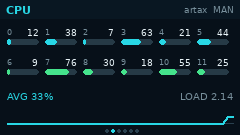
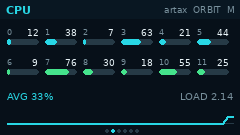
Add button navigation and encoder color themes

Changed region(s): [[0.6708, 0.0296, 0.9917, 0.1185]]

diff --git a/jetson_stats_pitft/ui.py b/jetson_stats_pitft/ui.py
@@ -3,6 +3,7 @@
 from __future__ import annotations
 
 from collections import deque
+from dataclasses import dataclass
 from pathlib import Path
 
 from PIL import Image, ImageDraw, ImageFont
@@ -11,16 +12,32 @@ from .metrics import Snapshot
 
 
 W, H = 240, 135
-BG = "#071019"
-PANEL = "#101e29"
-PANEL_2 = "#162936"
-TEXT = "#e8f3f7"
-MUTED = "#78909c"
-CYAN = "#28d7e5"
-GREEN = "#45e38c"
-MAGENTA = "#eb5cff"
-AMBER = "#ffc857"
-RED = "#ff5964"
+
+
+@dataclass(frozen=True)
+class Theme:
+    name: str
+    bg: str
+    header: str
+    panel: str
+    track: str
+    divider: str
+    text: str
+    muted: str
+    primary: str
+    success: str
+    accent: str
+    warn: str
+    danger: str
+
+
+THEMES = (
+    Theme("ORBIT", "#071019", "#091722", "#101e29", "#263a46", "#203441", "#e8f3f7", "#78909c", "#28d7e5", "#45e38c", "#eb5cff", "#ffc857", "#ff5964"),
+    Theme("EMBER", "#160d08", "#211109", "#2a1710", "#493022", "#3b241a", "#fff2dc", "#b69a78", "#ffb000", "#ffd166", "#ff6b35", "#ffe66d", "#ff3b30"),
+    Theme("MATRIX", "#020d08", "#041a10", "#092419", "#174631", "#103825", "#e5fff1", "#71a98a", "#00ff88", "#9cff57", "#00d1b2", "#e0ff4f", "#ff4d6d"),
+    Theme("SYNTH", "#10071c", "#190b2b", "#21123a", "#46305e", "#38234e", "#fff0ff", "#a98ab8", "#00e5ff", "#7df9ff", "#ff4fd8", "#ffd166", "#ff477e"),
+    Theme("ARCTIC", "#06101b", "#091a2a", "#10263a", "#28485f", "#1c3a50", "#edf8ff", "#809db2", "#48cae4", "#90e0ef", "#5e60ce", "#ffd166", "#ff6b6b"),
+)
 
 FONT_DIR = Path("/usr/share/fonts/truetype/dejavu")
 
@@ -67,12 +84,19 @@ def _uptime(seconds: float) -> str:
 
 class DashboardUI:
     page_names = ("DECK", "CPU", "GPU", "MEM", "NET", "SYSTEM")
+    theme_names = tuple(theme.name for theme in THEMES)
 
-    def __init__(self):
+    def __init__(self, theme: int = 0):
+        self.theme_index = theme % len(THEMES)
+        self.theme = THEMES[self.theme_index]
         self.cpu_history: deque[float] = deque([0] * 48, maxlen=48)
         self.gpu_history: deque[float] = deque([0] * 48, maxlen=48)
         self.rx_history: deque[float] = deque([0] * 48, maxlen=48)
         self.tx_history: deque[float] = deque([0] * 48, maxlen=48)
+
+    def set_theme(self, theme: int) -> None:
+        self.theme_index = theme % len(THEMES)
+        self.theme = THEMES[self.theme_index]
 
     def render(self, snapshot: Snapshot, page: int, auto: bool = False) -> Image.Image:
         self.cpu_history.append(snapshot.cpu_percent)
@@ -80,7 +104,7 @@ class DashboardUI:
         self.rx_history.append(snapshot.network_rx_bps)
         self.tx_history.append(snapshot.network_tx_bps)
         page %= len(self.page_names)
-        image = Image.new("RGB", (W, H), BG)
+        image = Image.new("RGB", (W, H), self.theme.bg)
         draw = ImageDraw.Draw(image)
         self._header(draw, snapshot, page, auto)
         renderers = (self._deck, self._cpu, self._gpu, self._memory, self._network, self._system)
@@ -127,35 +151,30 @@ class DashboardUI:
         return common + page_regions[page % len(page_regions)]
 
     def _header(self, draw: ImageDraw.ImageDraw, s: Snapshot, page: int, auto: bool) -> None:
-        draw.rectangle((0, 0, W, 18), fill="#091722")
-        draw.text((6, 3), self.page_names[page], font=F11, fill=CYAN)
-        host = s.hostname[:15]
-        label = f"{host}  {'AUTO' if auto else 'MAN'}"
-        draw.text((234, 4), label, font=F9, fill=GREEN if auto else MUTED, anchor="ra")
+        draw.rectangle((0, 0, W, 18), fill=self.theme.header)
+        draw.text((6, 3), self.page_names[page], font=F11, fill=self.theme.primary)
+        label = f"{s.hostname[:8]}  {self.theme.name}  {'A' if auto else 'M'}"
+        draw.text((234, 4), label, font=F9, fill=self.theme.success if auto else self.theme.muted, anchor="ra")
 
-    @staticmethod
-    def _footer(draw: ImageDraw.ImageDraw, page: int) -> None:
+    def _footer(self, draw: ImageDraw.ImageDraw, page: int) -> None:
         for index in range(6):
             x = 105 + index * 6
-            color = CYAN if index == page else "#29404e"
+            color = self.theme.primary if index == page else self.theme.track
             draw.ellipse((x, 129, x + 3, 132), fill=color)
 
-    @staticmethod
-    def _panel(draw: ImageDraw.ImageDraw, box: tuple[int, int, int, int]) -> None:
-        draw.rounded_rectangle(box, radius=4, fill=PANEL)
+    def _panel(self, draw: ImageDraw.ImageDraw, box: tuple[int, int, int, int]) -> None:
+        draw.rounded_rectangle(box, radius=4, fill=self.theme.panel)
 
-    @staticmethod
-    def _bar(draw: ImageDraw.ImageDraw, box: tuple[int, int, int, int], value: float, color: str) -> None:
+    def _bar(self, draw: ImageDraw.ImageDraw, box: tuple[int, int, int, int], value: float, color: str) -> None:
         x0, y0, x1, y1 = box
-        draw.rounded_rectangle(box, radius=2, fill="#263a46")
+        draw.rounded_rectangle(box, radius=2, fill=self.theme.track)
         width = int((x1 - x0) * _clamp(value) / 100)
         if width:
             draw.rounded_rectangle((x0, y0, x0 + width, y1), radius=2, fill=color)
 
-    @staticmethod
-    def _spark(draw: ImageDraw.ImageDraw, values: deque[float], box: tuple[int, int, int, int], color: str, maximum: float = 100) -> None:
+    def _spark(self, draw: ImageDraw.ImageDraw, values: deque[float], box: tuple[int, int, int, int], color: str, maximum: float = 100) -> None:
         x0, y0, x1, y1 = box
-        draw.line((x0, y1, x1, y1), fill="#29404e")
+        draw.line((x0, y1, x1, y1), fill=self.theme.track)
         vals = list(values)
         if len(vals) < 2:
             return
@@ -166,80 +185,79 @@ class DashboardUI:
         ]
         draw.line(points, fill=color, width=2, joint="curve")
 
-    @staticmethod
-    def _gauge(draw: ImageDraw.ImageDraw, center: tuple[int, int], radius: int, value: float, color: str, label: str) -> None:
+    def _gauge(self, draw: ImageDraw.ImageDraw, center: tuple[int, int], radius: int, value: float, color: str, label: str) -> None:
         cx, cy = center
         box = (cx - radius, cy - radius, cx + radius, cy + radius)
-        draw.arc(box, 150, 390, fill="#29404e", width=5)
+        draw.arc(box, 150, 390, fill=self.theme.track, width=5)
         draw.arc(box, 150, 150 + 240 * _clamp(value) / 100, fill=color, width=5)
-        draw.text((cx, cy - 7), f"{value:.0f}%", font=F13, fill=TEXT, anchor="mm")
-        draw.text((cx, cy + 8), label, font=F8, fill=MUTED, anchor="mm")
+        draw.text((cx, cy - 7), f"{value:.0f}%", font=F13, fill=self.theme.text, anchor="mm")
+        draw.text((cx, cy + 8), label, font=F8, fill=self.theme.muted, anchor="mm")
 
     def _deck(self, draw: ImageDraw.ImageDraw, s: Snapshot) -> None:
-        self._gauge(draw, (39, 66), 27, s.cpu_percent, CYAN, "CPU")
-        self._gauge(draw, (102, 66), 27, s.gpu_percent, MAGENTA, "GPU")
+        self._gauge(draw, (39, 66), 27, s.cpu_percent, self.theme.primary, "CPU")
+        self._gauge(draw, (102, 66), 27, s.gpu_percent, self.theme.accent, "GPU")
         self._panel(draw, (137, 25, 234, 117))
         rows = (
-            ("RAM", f"{s.ram_percent:.0f}%", GREEN),
-            ("TEMP", f"{s.hottest_temp:.0f}°C", AMBER),
-            ("POWER", f"{s.total_power_w:.1f}W", MAGENTA),
-            ("FAN", f"{s.fan_rpm} rpm", CYAN),
+            ("RAM", f"{s.ram_percent:.0f}%", self.theme.success),
+            ("TEMP", f"{s.hottest_temp:.0f}°C", self.theme.warn),
+            ("POWER", f"{s.total_power_w:.1f}W", self.theme.accent),
+            ("FAN", f"{s.fan_rpm} rpm", self.theme.primary),
         )
         for i, (label, value, color) in enumerate(rows):
             y = 31 + i * 21
-            draw.text((144, y), label, font=F8, fill=MUTED)
+            draw.text((144, y), label, font=F8, fill=self.theme.muted)
             draw.text((227, y - 1), value, font=F11, fill=color, anchor="ra")
             if i < 3:
-                draw.line((144, y + 16, 227, y + 16), fill="#203441")
+                draw.line((144, y + 16, 227, y + 16), fill=self.theme.divider)
 
     def _cpu(self, draw: ImageDraw.ImageDraw, s: Snapshot) -> None:
         cores = s.cpu_cores or [0.0] * 12
         for i, value in enumerate(cores[:12]):
             column, row = i % 6, i // 6
             x, y = 7 + column * 38, 27 + row * 30
-            draw.text((x, y), f"{i}", font=F8, fill=MUTED)
-            draw.text((x + 31, y), f"{value:.0f}", font=F9, fill=TEXT, anchor="ra")
-            self._bar(draw, (x, y + 12, x + 31, y + 17), value, CYAN if row == 0 else GREEN)
-        draw.text((7, 90), f"AVG {s.cpu_percent:.0f}%", font=F10, fill=CYAN)
-        draw.text((233, 90), f"LOAD {s.load[0]:.2f}", font=F10, fill=MUTED, anchor="ra")
-        self._spark(draw, self.cpu_history, (7, 103, 233, 123), CYAN)
+            draw.text((x, y), f"{i}", font=F8, fill=self.theme.muted)
+            draw.text((x + 31, y), f"{value:.0f}", font=F9, fill=self.theme.text, anchor="ra")
+            self._bar(draw, (x, y + 12, x + 31, y + 17), value, self.theme.primary if row == 0 else self.theme.success)
+        draw.text((7, 90), f"AVG {s.cpu_percent:.0f}%", font=F10, fill=self.theme.primary)
+        draw.text((233, 90), f"LOAD {s.load[0]:.2f}", font=F10, fill=self.theme.muted, anchor="ra")
+        self._spark(draw, self.cpu_history, (7, 103, 233, 123), self.theme.primary)
 
     def _gpu(self, draw: ImageDraw.ImageDraw, s: Snapshot) -> None:
-        self._gauge(draw, (44, 65), 29, s.gpu_percent, MAGENTA, "GR3D")
+        self._gauge(draw, (44, 65), 29, s.gpu_percent, self.theme.accent, "GR3D")
         self._panel(draw, (82, 25, 234, 84))
-        draw.text((90, 31), "BOARD POWER", font=F8, fill=MUTED)
-        draw.text((226, 28), f"{s.total_power_w:.2f} W", font=F18, fill=AMBER, anchor="ra")
-        draw.text((90, 58), "HOTTEST", font=F8, fill=MUTED)
-        draw.text((226, 55), f"{s.hottest_temp:.1f}°C", font=F13, fill=RED if s.hottest_temp > 80 else GREEN, anchor="ra")
-        draw.text((7, 94), "GPU HISTORY", font=F8, fill=MUTED)
-        self._spark(draw, self.gpu_history, (7, 103, 233, 123), MAGENTA)
+        draw.text((90, 31), "BOARD POWER", font=F8, fill=self.theme.muted)
+        draw.text((226, 28), f"{s.total_power_w:.2f} W", font=F18, fill=self.theme.warn, anchor="ra")
+        draw.text((90, 58), "HOTTEST", font=F8, fill=self.theme.muted)
+        draw.text((226, 55), f"{s.hottest_temp:.1f}°C", font=F13, fill=self.theme.danger if s.hottest_temp > 80 else self.theme.success, anchor="ra")
+        draw.text((7, 94), "GPU HISTORY", font=F8, fill=self.theme.muted)
+        self._spark(draw, self.gpu_history, (7, 103, 233, 123), self.theme.accent)
 
     def _memory(self, draw: ImageDraw.ImageDraw, s: Snapshot) -> None:
         rows = (
-            ("RAM", s.ram_percent, f"{s.ram_used_mb / 1024:.1f} / {s.ram_total_mb / 1024:.1f} GB", GREEN),
-            ("SWAP", s.swap_percent, f"{s.swap_used_mb / 1024:.1f} / {s.swap_total_mb / 1024:.1f} GB", MAGENTA),
-            ("ROOT", s.disk_percent, f"{_storage(s.disk_used)} / {_storage(s.disk_total)}", AMBER),
+            ("RAM", s.ram_percent, f"{s.ram_used_mb / 1024:.1f} / {s.ram_total_mb / 1024:.1f} GB", self.theme.success),
+            ("SWAP", s.swap_percent, f"{s.swap_used_mb / 1024:.1f} / {s.swap_total_mb / 1024:.1f} GB", self.theme.accent),
+            ("ROOT", s.disk_percent, f"{_storage(s.disk_used)} / {_storage(s.disk_total)}", self.theme.warn),
         )
         for index, (label, percent, value, color) in enumerate(rows):
             y = 28 + index * 31
             draw.text((8, y), label, font=F10, fill=color)
-            draw.text((232, y), value, font=F9, fill=TEXT, anchor="ra")
+            draw.text((232, y), value, font=F9, fill=self.theme.text, anchor="ra")
             self._bar(draw, (8, y + 14, 232, y + 21), percent, color)
-        draw.text((8, 120), "Unified memory shared by CPU + GPU", font=F8, fill=MUTED)
+        draw.text((8, 120), "Unified memory shared by CPU + GPU", font=F8, fill=self.theme.muted)
 
     def _network(self, draw: ImageDraw.ImageDraw, s: Snapshot) -> None:
-        draw.text((7, 25), s.network_interface, font=F13, fill=CYAN)
-        draw.text((233, 26), s.ip_address, font=F11, fill=TEXT, anchor="ra")
-        draw.text((7, 47), "RX", font=F9, fill=GREEN)
-        draw.text((27, 44), _bytes(s.network_rx_bps), font=F13, fill=TEXT)
-        draw.text((128, 47), "TX", font=F9, fill=MAGENTA)
-        draw.text((150, 44), _bytes(s.network_tx_bps), font=F13, fill=TEXT)
+        draw.text((7, 25), s.network_interface, font=F13, fill=self.theme.primary)
+        draw.text((233, 26), s.ip_address, font=F11, fill=self.theme.text, anchor="ra")
+        draw.text((7, 47), "RX", font=F9, fill=self.theme.success)
+        draw.text((27, 44), _bytes(s.network_rx_bps), font=F13, fill=self.theme.text)
+        draw.text((128, 47), "TX", font=F9, fill=self.theme.accent)
+        draw.text((150, 44), _bytes(s.network_tx_bps), font=F13, fill=self.theme.text)
         peak = max(1024, *self.rx_history, *self.tx_history)
-        self._spark(draw, self.rx_history, (7, 73, 233, 121), GREEN, peak)
-        self._spark(draw, self.tx_history, (7, 73, 233, 121), MAGENTA, peak)
+        self._spark(draw, self.rx_history, (7, 73, 233, 121), self.theme.success, peak)
+        self._spark(draw, self.tx_history, (7, 73, 233, 121), self.theme.accent, peak)
 
     def _system(self, draw: ImageDraw.ImageDraw, s: Snapshot) -> None:
-        draw.text((8, 25), s.hostname, font=F24, fill=CYAN)
+        draw.text((8, 25), s.hostname, font=F24, fill=self.theme.primary)
         rows = (
             ("POWER MODE", s.nvpmodel),
             ("JETPACK", s.jetpack),
@@ -249,8 +267,8 @@ class DashboardUI:
         )
         for index, (label, value) in enumerate(rows):
             y = 56 + index * 14
-            draw.text((8, y), label, font=F8, fill=MUTED)
-            draw.text((232, y), value[:25], font=F9, fill=TEXT, anchor="ra")
+            draw.text((8, y), label, font=F8, fill=self.theme.muted)
+            draw.text((232, y), value[:25], font=F9, fill=self.theme.text, anchor="ra")
 
 
 def mock_snapshot() -> Snapshot:

diff --git a/jetson_stats_pitft/app.py b/jetson_stats_pitft/app.py
@@ -23,6 +23,7 @@ class Dashboard:
         self.with_inputs = with_inputs
         self.spi_hz = spi_hz
         self.auto = False
+        self.theme = 0
         self.auto_at = time.monotonic() + 8
         self.stop_event = threading.Event()
         self.render_event = threading.Event()
@@ -40,6 +41,11 @@ class Dashboard:
             self.auto_at = time.monotonic() + 8
         self.render_event.set()
 
+    def _cycle_theme(self, amount: int) -> None:
+        with self.lock:
+            self.theme = (self.theme + amount) % len(DashboardUI.theme_names)
+        self.render_event.set()
+
     def stop(self, *_args: object) -> None:
         self.stop_event.set()
         self.render_event.set()
@@ -52,7 +58,7 @@ class Dashboard:
             with ST7789(speed_hz=self.spi_hz) as display:
                 if self.with_inputs:
                     inputs = InputMonitor(
-                        on_rotate=self._move,
+                        on_rotate=self._cycle_theme,
                         on_press=self._toggle_auto,
                         on_previous=lambda: self._move(-1),
                         on_next=lambda: self._move(1),
@@ -61,10 +67,13 @@ class Dashboard:
                 ui = DashboardUI()
                 snapshot = collector.collect()
                 with self.lock:
-                    page, auto = self.page, self.auto
+                    page, auto, theme = self.page, self.auto, self.theme
+                ui.set_theme(theme)
                 target = ui.render(snapshot, page, auto)
                 display.show(target)
                 displayed_page = page
+                displayed_theme = theme
+                displayed_auto = auto
                 regions: list[tuple[int, int, int, int]] = []
                 next_sample = time.monotonic() + self.interval
                 next_micro = time.monotonic()
@@ -74,14 +83,18 @@ class Dashboard:
                         if self.auto and now >= self.auto_at:
                             self.page = (self.page + 1) % len(ui.page_names)
                             self.auto_at = now + 8
-                        page, auto = self.page, self.auto
-                    if page != displayed_page:
+                        page, auto, theme = self.page, self.auto, self.theme
+                    if page != displayed_page or theme != displayed_theme or auto != displayed_auto:
+                        ui.set_theme(theme)
                         target = ui.render(snapshot, page, auto)
                         display.show(target)
                         displayed_page = page
+                        displayed_theme = theme
+                        displayed_auto = auto
                         regions.clear()
                     if now >= next_sample:
                         snapshot = collector.collect()
+                        ui.set_theme(theme)
                         target = ui.render(snapshot, page, auto)
                         regions = ui.regions(page)
                         random.shuffle(regions)

diff --git a/jetson_stats_pitft/inputs.py b/jetson_stats_pitft/inputs.py
@@ -61,6 +61,7 @@ class InputMonitor:
 
     def _run(self) -> None:
         previous = {name: line.get_value() for name, line in self.lines.items()}
+        idle = {name: previous[name] for name in self.callbacks}
         encoder_state = (previous["encoder_a"] << 1) | previous["encoder_b"]
         encoder_accumulator = 0
         last_press = {name: 0.0 for name in self.callbacks}
@@ -77,7 +78,8 @@ class InputMonitor:
 
             now = time.monotonic()
             for name, callback in self.callbacks.items():
-                if previous[name] == 1 and values[name] == 0 and now - last_press[name] > 0.15:
+                pressed = previous[name] == idle[name] and values[name] != idle[name]
+                if pressed and now - last_press[name] > 0.15:
                     last_press[name] = now
                     callback()
             previous = values

diff --git a/jetson_stats_pitft/__init__.py b/jetson_stats_pitft/__init__.py
@@ -1,3 +1,3 @@
 """Jetson telemetry dashboard for the Adafruit Mini PiTFT."""
 
-__version__ = "0.1.0"
+__version__ = "0.2.0"

diff --git a/README.md b/README.md
@@ -20,9 +20,15 @@ The encoder and two front buttons move through six live pages:
 
 Controls:
 
-- Turn encoder: previous/next page
-- Press left/right PiTFT button: previous/next page
+- Turn encoder: cycle backward/forward through color schemes
+- Press top PiTFT button: previous page
+- Press bottom PiTFT button: next page
 - Press encoder: toggle automatic page rotation (eight seconds per page)
+
+The original **Orbit** colors remain the startup default. The additional
+schemes are Ember, Matrix, Synth, and Arctic. Button polarity is learned from
+the idle level at service startup, so both PiTFT buttons act on press even when
+their electrical idle levels differ.
 
 Telemetry comes from one persistent NVIDIA `tegrastats` process plus lightweight
 Linux interfaces such as `/proc`, `/sys`, `statvfs`, and the network address
